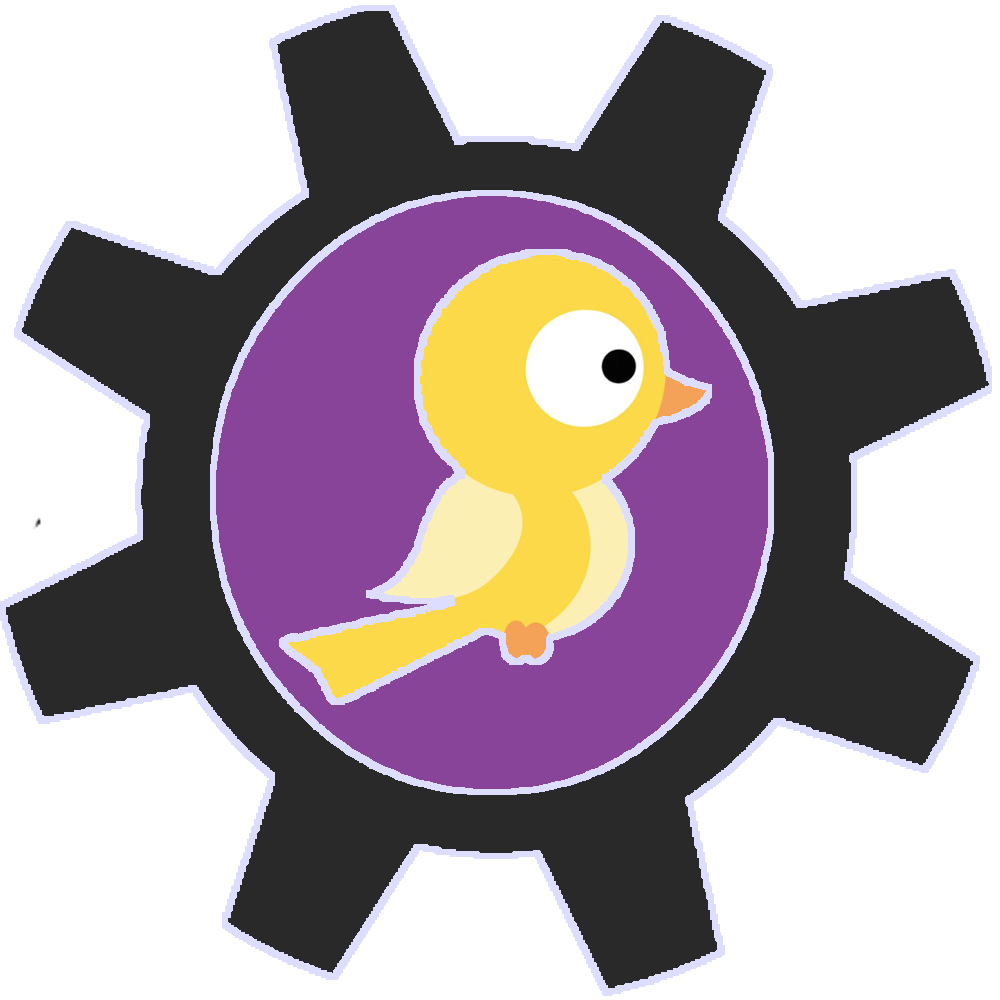
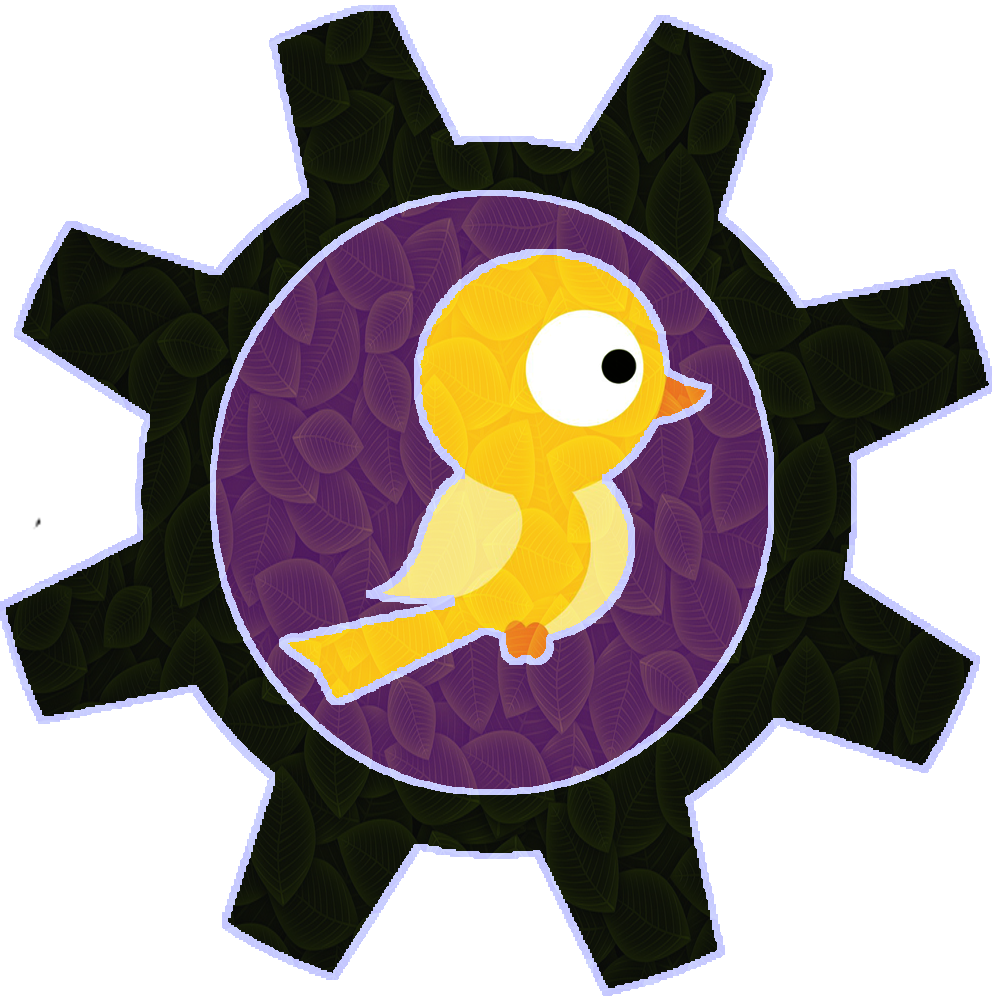
Change styles and color palette

diff --git a/public/assets/style.css b/public/assets/style.css
@@ -1,23 +1,15 @@
 body > *{
-  --darkSlateGray: #222;
-  --darkGray: #444;
-  --brightGray: #999;
-  --lightGray: #EEE;
-  --dimPurple: #849;
-  --brightPurple: #879;
-  --royalBlue: #55F;
-  --mediumSlateBlue: #97F;
-  --whiteBlue: #DDF;
-  --paleBlue: #9BF;
-  --darkkhaki: #BA5;
-  --dimBrown: #875;
-  --sandyBrown: #FE5;
+  --gray-dark: #262626;
+  --orange: #F5A017;
+  --yellow-light: #EDE0AE;
+  --yellow-dark: #F8C74A;
+  --yellow: #F3D538;
   --bold: 600;
   --normal: 400;
   font-size: 16px;
   line-height: 32px;
   font-weight: var(--normal);
-  color: var(--darkSlateGray);
+  color: var(--gray-dark);
 }
 *{
   font-family: 'PT Sans', sans-serif;
@@ -79,7 +71,8 @@ body > *{
 }
 /** Backgrounds **/
 .background {
-  background-color: var(--darkGray);
+  background-image: url(/public/assets/images/background-all.png);
+  background-repeat: repeat;
   min-width: 950px;
   min-height: 100vh;
   margin: 0;
@@ -90,10 +83,11 @@ body > *{
   width: 100%;
   min-width: 700px;
   min-height: 100vh;
-  background-color: var(--brightPurple);
+  background-image: url(/public/assets/images/background.png);
+  background-repeat: repeat;
 }
 .page-background{
-  background-color: var(--darkSlateGray);
+  background-color: rgba(26, 26, 26, .5);
   border-radius: 10px;
   padding: .75rem;
   margin: .8rem auto;
@@ -133,21 +127,24 @@ body > *{
   margin: 0;
   padding:1em;
   font-size: 1.5em;
-  color: var(--whiteBlue);
+  color: var(--yellow-light);
   font-weight: var(--bold);
 }
 .label{
-  color: var(--whiteBlue);
+  color: var(--yellow-light);
   text-align: left;
   padding: .50rem;
   font-size: .8rem;
   font-weight: var(--normal);
 }
+.label-button{
+  color: var(--gray-dark);
+}
 .input{
   height: 1.6rem;
   font-size: .8rem;
   border: none;
-  background-color: var(--whiteBlue);
+  background-color: var(--yellow-light);
   border-radius: 10px;
   padding-left: .25em;
 }
@@ -155,15 +152,15 @@ body > *{
   height: 1.6rem;
   font-size: .8rem;
   border: none;
-  background-color: var(--whiteBlue);
+  background-color: var(--yellow-light);
   border-radius: 10px;
   padding-left: .25rem;
 }
 .button{
-  color: var(--whiteBlue);
+  color: var(--yellow-light);
   width: 12rem;
   margin: .20rem 0;
-  background-color: var(--dimPurple);
+  background-color: var(--gray-dark);
   border-radius: 10px;
   font-size: .8rem;
   font-weight: var(--normal);
@@ -171,12 +168,11 @@ body > *{
 }
 .button:hover{
   cursor: pointer;
-  color: var(--whiteBlue);
-  background-color: var(--paleBlue);
-  box-shadow: inset 0 0 2rem var(--royalBlue);
+  color: var(--gray-dark);
+  background-color: var(--orange);
 }
 .about{
-  color: #292929;
+  color: var(--gray-dark);
   padding: 20px;
 }
 .title{
@@ -187,10 +183,10 @@ body > *{
 }
 
 .footer{
-  padding: 15px;
+  padding: .5rem;
   font-weight: var(--bold);
-  background-color: var(--darkSlateGray);
-  color: var(--whiteBlue);
+  background-color: var(--gray-dark);
+  color: var(--yellow-light);
 }
 li{
   clear: none;
@@ -202,27 +198,28 @@ ul.topnav {
   margin: 0;
   padding: 0;
   overflow: hidden;
-  background-color: var(--darkSlateGray);
+  border-bottom: solid;
+  background-color: var(--gray-dark);
 }
 
 ul.topnav li {float: left;}
 
 ul.topnav li a {
     display: block;
-    color: var(--whiteBlue);
+    color: var(--yellow-light);
     text-align: center;
     padding: 14px 16px;
     text-decoration: none;
 }
 
-ul.topnav li a:hover:not(.active) {
-  background-color: var(--whiteBlue);
-  color: var(--darkSlateGray);
+ul.topnav li a:hover{
+  background-color: var(--yellow-light);
+  color: var(--gray-dark);
 }
-
+/*
 ul.topnav li a.active {
-  background-color: var(--dimPurple)
-}
+  background-color: var(--orange)
+}*/
 
 ul.topnav li.right {float: right;}
 
@@ -239,26 +236,20 @@ ul.topnav li.right {float: right;}
   font-weight: var(--bold);
   font-size: 1em;
   padding-left: 0;
-  color: var(--darkSlateGray);
-  text-decoration: none;
-  cursor: pointer;
-}
-.commit-title:hover{
-  text-shadow: 0 0 2px red;
 }
 a{
   text-decoration: none;
 }
 .commit-author{
   font-size: .8em;
-  color: var(--darkSlateGray);
+  color: var(--gray-dark);
 }
 .commit-body{
   padding-left: 0;
   line-height: 1em;
   text-align: left;
   font-size: 1em;
-  color: var(--darkSlateGray);
+  color: var(--gray-dark);
 }
 .commit-messages-container{
   padding: .33em;
@@ -289,11 +280,21 @@ input[type=checkbox]:not(:checked) {
   background-image: url("/public/assets/images/git-commit.png");
 }
 
+a{
+  text-decoration: none;
+  color: var(--orange);
+}
+a:hover{
+  color: var(--yellow-dark);
+}
+a:visited{
+  color: var(--orange);
+}
 .main-legend {
   padding: 0.2em 0.5em;
-  border: 2px solid var(--darkSlateGray);
-  background-color: var(--dimPurple);
-  color: var(--whiteBlue);
+  border: 2px solid var(--gray-dark);
+  background-color: var(--orange);
+  color: var(--yellow-light);
   font-weight: bold;
   font-size:.9em;
   text-align:center;
@@ -301,14 +302,12 @@ input[type=checkbox]:not(:checked) {
 /*** merges ***/
 [id^="merge-"]{
   background: var(--mediumSlateBlue);
-  border: solid 2px var(--whiteBlue);
+  border: solid 2px var(--yellow-light);
   margin-top: .75em;
 }
 .merges-div {
   overflow-y: scroll;
   height: 700px;
-  max-width: 700px;
-  min-width: 440px;
   padding: 1em;
 }
 .commits-div {
@@ -319,15 +318,16 @@ input[type=checkbox]:not(:checked) {
 .merges-fieldset {
   display: none;
   margin: 0 auto;
-  border:2px solid var(--darkSlateGray);
+  border:2px solid var(--gray-dark);
   max-width: 700px;
   min-width: 340px;
+  background-color: rgba(26, 26, 26, 0.6);
 }
 .commits-fieldset {
-  background-color: var(--darkkhaki);
   display: none;
   margin: 0 auto;
-  border:2px solid var(--darkSlateGray);
+  border:2px solid var(--gray-dark);
+  background-color: rgba(26, 26, 26, 0.5);
   max-width: 700px;
   min-width: 340px;
 }
@@ -336,10 +336,9 @@ input[type=checkbox]:not(:checked) {
   padding: 0 .75em;
   font-weight: var(--bold);
   font-size: 1.15em;
-  color: var(--darkSlateGray);
-  text-decoration: underline;
-  border: solid 2px var(--whiteBlue);
-  background: var(--darkkhaki);
+  color: var(--gray-dark);
+  border: solid 2px var(--yellow-light);
+  background: var(--gray-dark);
 }
 
 .merge-subtitle{
@@ -347,7 +346,7 @@ input[type=checkbox]:not(:checked) {
   font-size: 1.10em;
   text-align: left;
   font-weight: var(--bold);
-  color: var(--darkSlateGray);
+  color: var(--gray-dark);
 }
 .merge-info{
   display: block;
@@ -356,7 +355,7 @@ input[type=checkbox]:not(:checked) {
   line-height: 1em;
   text-align: left;
   font-weight: var(--normal);
-  color: var(--darkSlateGray);
+  color: var(--gray-dark);
 }
 /** config button **/
 .config:hover{
@@ -366,10 +365,10 @@ input[type=checkbox]:not(:checked) {
 .release-note-fieldset {
   display: none;
   border:0;
-  height: 700px;
   max-width: 700px;
   min-width: 340px;
   padding: 1rem;
+  background-color: rgba(245, 160, 23, 0.5);
 }
 .md-fieldset {
   display: none;
@@ -377,17 +376,18 @@ input[type=checkbox]:not(:checked) {
   max-width: 700px;
   min-width: 340px;
   padding: 1rem;
+  background-color: rgba(245, 160, 23, 0.5);
 }
 .releaseNote-div{
-  background-color: var(--whiteBlue);
-  height: 100%;
+  background-color: var(--yellow-light);
+  height: 670px;
   padding: 1.5rem;
   overflow-y: scroll;
 }
 .md-div{;
-  background-color: var(--whiteBlue);
+  background-color: var(--yellow-light);
   padding: 1.5rem;
-  height: 700px;
+  height: 670px;
 }
 #md{
   padding: .35rem;
@@ -430,7 +430,6 @@ input[type=checkbox]:not(:checked) {
   left: 0;
   right: 0;
   bottom: 0;
-  background-color: var(--lightGray);
   -webkit-transition: .4s;
   transition: .4s;
   box-shadow: inset 0 0 10px #000000;
@@ -444,13 +443,13 @@ input[type=checkbox]:not(:checked) {
   left: 2px;
   right: 2px;
   bottom: 1px;
-  background: radial-gradient(var(--dimPurple), var(--darkSlateGray), var(--dimPurple));
+  background: var(--gray-dark);
   -webkit-transition: .3s;
   transition: .1s;)
 }
 
 input:checked + .slider {
-  background-color: var(--sandyBrown);
+  background-color: var(--orange);
 }
 
 input:focus + .slider {
@@ -466,7 +465,7 @@ input:checked + .slider:before {
 /* Rounded sliders */
 .slider.round {
   border-radius: 26px;
-  border: solid 2px var(--darkSlateGray);
+  border: solid 2px var(--gray-dark);
 }
 
 .slider.round:before {

diff --git a/public/js/generate.js b/public/js/generate.js
@@ -2,6 +2,7 @@ $(document).on('click', '#btnGenerate', function() {
   $(".merges-fieldset").hide()
   $(".commits-fieldset").hide()
   $(".release-note-fieldset").show()
+  $(".md-fieldset").hide()
   $('#merges').empty()
   $('#commits').empty()
   var projectName = $('#projects option:selected').text()
